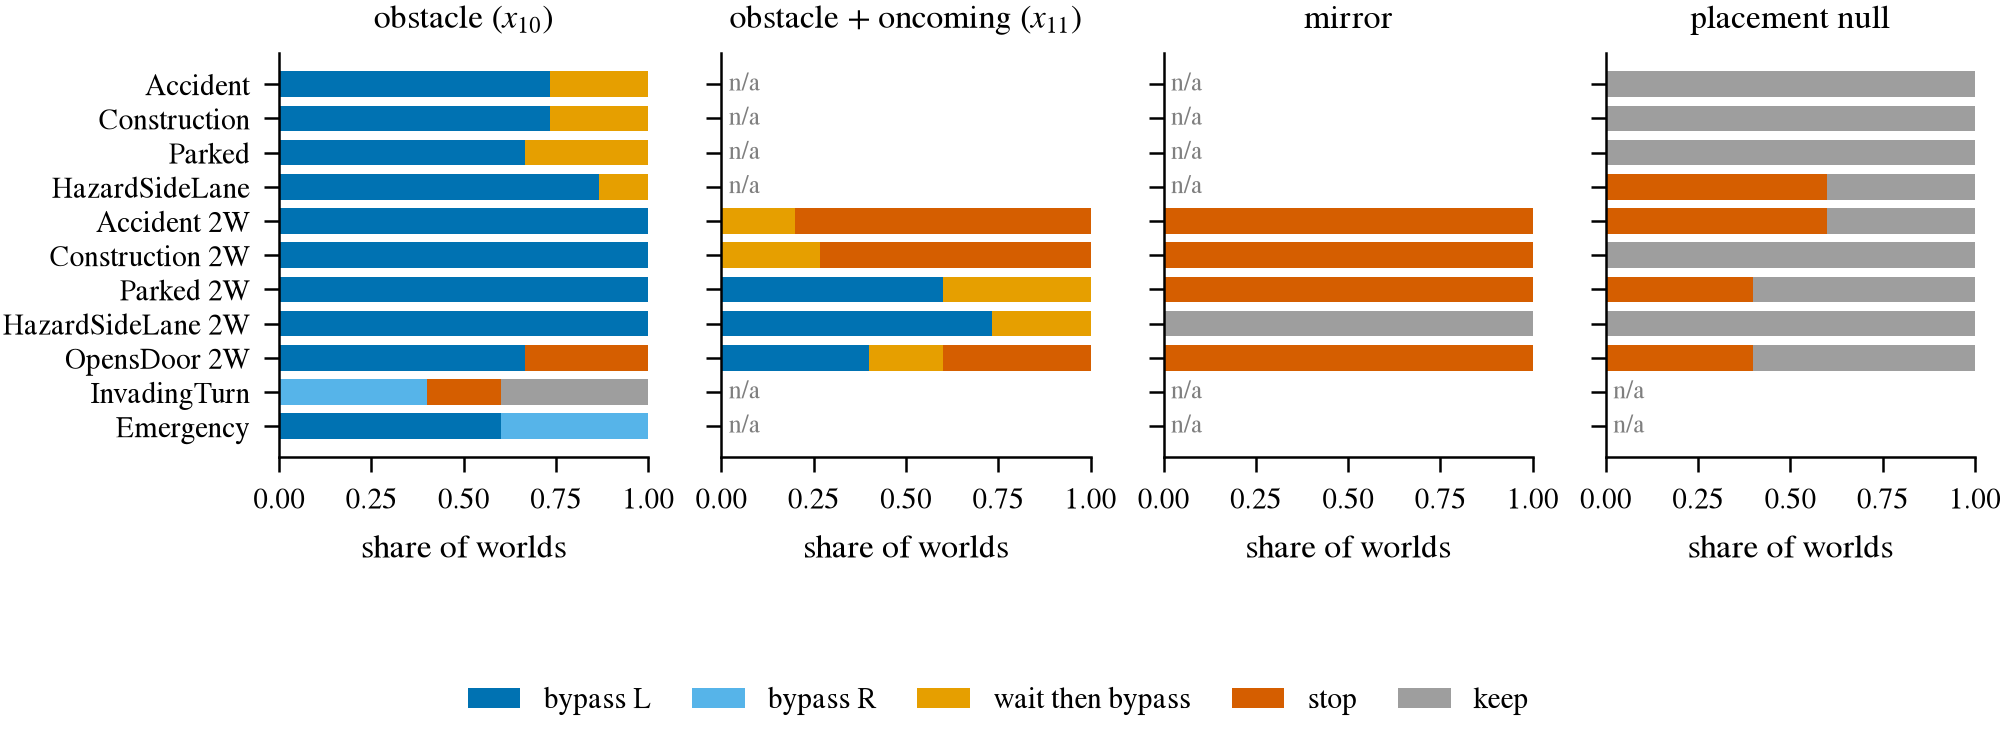
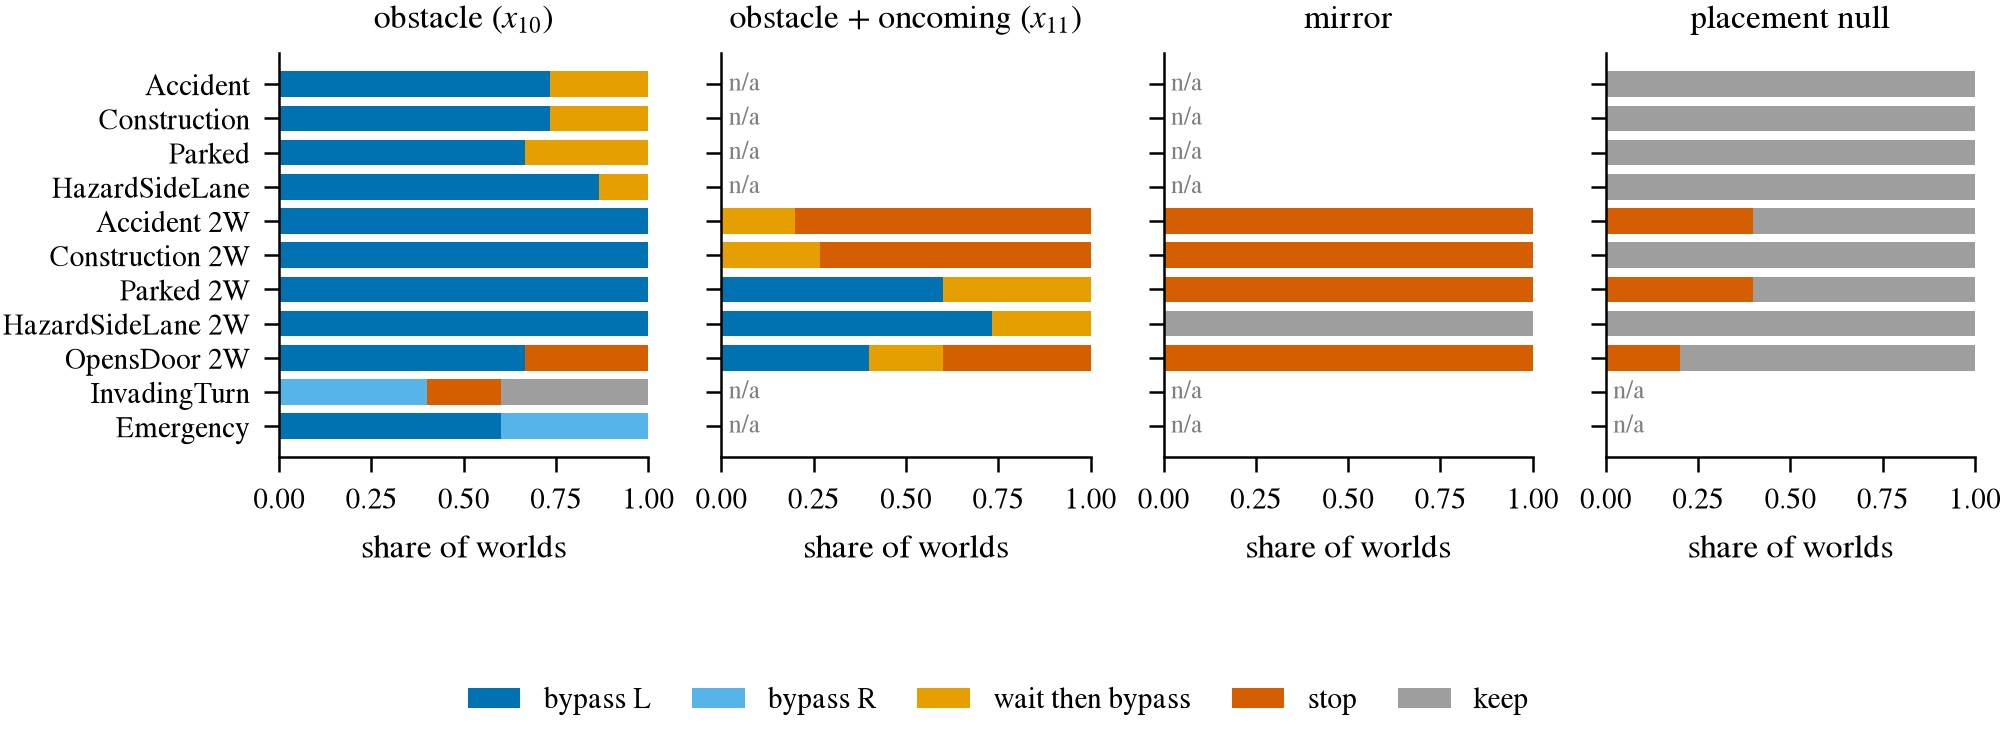
N1: placement null rerun after the generator fix (40/45, registered gate still not met; remaining stops are background traffic), results and decision 52 updated in place

Changed region(s): [[0.8044, 0.2411, 0.9281, 0.3315], [0.8353, 0.4521, 0.8972, 0.5123]]

diff --git a/research/decisions.md b/research/decisions.md
@@ -3355,7 +3355,7 @@ openpilot 那条线的执行器检查（night-queue-2 N2）仍是第三层的主
 **状态**：**待定**。限定：反应式对手（traffic = PPO）那一臂没跑，A 的 (c) 只在不反应的对手上读；B 只有 171 个直路 episode，障碍全是 4.8 × 2.0 m 的车，没考路口和对向来车；cond_caut / aggr / PDM 只跑了 B。
 **会推翻或推进本条的证据**：traffic = PPO 下 PPO 的 at-fault 碰撞差 ≤ 5 pp（(c) 过，negotiation 判定升级）；GPUDrive 的 HF policy 装上后在同一考卷上过有效性门槛且会回线（执行层有了候选）。
 
-## 52. 第三层的第一版考卷（P6 v0）成立：PDM-Lite 在 9 类障碍上 100% 绕、删登记后 0% 绕、分叉都在障碍可见之后；对向车流造出了 negotiation（65% 先等）；放置 null 不过，InvadingTurn、开门车、救护车不进主读数；`cls_late` 的词表里没有绕行 anchor（**待定**，CARLA 220 集 55 条路线 × 3 seed，单 expert）
+## 52. 第三层的第一版考卷（P6 v0）成立：PDM-Lite 在 9 类障碍上 100% 绕、删登记后 0% 绕、分叉都在障碍可见之后；对向车流造出了 negotiation（65% 先等）；放置 null 修生成器重跑后 0.889，按登记仍差一个世界（剩下的都是背景交通停车）；InvadingTurn、开门车、救护车不进主读数；`cls_late` 的词表里没有绕行 anchor（**待定**，CARLA 220 集 55 条路线 × 3 seed，单 expert）
 
 2026-09-26。预登记与全部操作性选择在 [夜间队列 2](../todos/2026-09-26-night-queue-2.md) N1（`[A]` 条目，写于每一步数字之前；对向车流的实现在 smoke 里改过两次，改动与原因都在 10:09 / 10:59 / 11:12 条），
 小表在 [results/night2/N1/](results/night2/N1/)，代码 `jevdrive/p6.py`、`scripts/b2d_hooks.py`（`p6_world`）、`scripts/p6_gen.sh`。接第 47 条（第三层没有量具）。
@@ -3368,7 +3368,7 @@ openpilot 那条线的执行器检查（night-queue-2 N2）仍是第三层的主
 | x₀₀ bypass | 0 / 165（x₀₀ 的 12 个 stop 与 x₀₁ 相同，是背景交通） | smoke：≥ 95% 帧 \|d\| < 0.3 m | 1 670 / 1 670 帧 |
 | t_div ≥ t_vis | 9 类障碍 135 / 135；InvadingTurn 12 / 15；Emergency 0 / 15（救护车在后方，前向相机看不到） | 只取通过的对 | |
 | negotiation：x₁₁ 里先等（wait-then-bypass 或 stop） | 0.65（x₁₀ 0.07）；AccidentTwoWays / Construction 2W 1.00，ParkedObstacle 2W 0.40，Door 0.60，HazardAtSideLane 2W 0.27 | ≥ 0.50 | 过 |
-| 放置 null keep | 35 / 45 = 0.78（其中 5 个 stop 在 x₀₀ 里也 stop，事后） | ≥ 0.90 | **不过，要修生成器** |
+| 放置 null keep | 40 / 45 = 0.889（修生成器、重跑后；5 个 stop 在 x₀₀ 里也 stop，事后「与 x₀₀ 同模式」45 / 45） | ≥ 0.90 | **按登记不过** |
 | 镜像题 stop | 20 / 25 = 0.80（HazardAtSideLane 2W 的 5 个是跟车不停） | ≥ 0.80 | 过（踩线） |
 | 天气 null / x₀₁ 与对照的模式一致 | 55 / 55、75 / 75 | — | |
 
@@ -3380,7 +3380,10 @@ x₁₁ 一栏里黄（先等后绕）和橙（录制窗内一直在等）占了
 1. **P6 的 bypass 对比（x₁₀ − x₀₀）可以用了**：9 类障碍 135 对都干净（删登记后 PDM-Lite 不再「对空气绕行」，分叉在障碍可见之后 2.4–3.7 s，横向 0.3 m 分叉在可见后约 6 s）。
 2. **negotiation 对比（x₁₁ − x₁₀）也造出来了**，但是靠我们自己布的对向车流（B2D 自带的对向流在触发后 5 s、从障碍前方约 75 m 起流，smoke 里从没赶上 ego），
    所以它量的是「PDM-Lite 的 gap check 对这张车流表的反应」，与 B2D 闭环 SR 里的 2W 难度不是同一个量。HazardAtSideLane 类的「等」是跟车，登记定义记不到，读考生时单列。
-3. **放置 null 不过**：路肩位移对自行车（它们仍被当成前车）和一部分 2W 不够。按规则先修生成器（加大偏移）并重跑这 45 个世界，才能读「考生是否只对『有东西』起反应」。
+3. **放置 null 按登记不过，但剩下的失败与障碍无关**（2026-09-26 16:00 就地改；原写「路肩位移对自行车和一部分 2W 不够，要先修生成器并重跑」，第一版是 35 / 45 = 0.78）。
+   第一版生成器有三处 bug：自行车的补丁打在了另一个模块对象上、从没生效；平移方向按「最近的驾驶车道」取，两车道对向的路上会取到对向车道；开着物理的停放车被放到路缘后被弹回车道或弹出地图。
+   三处都修了（按 ego 路线求方向、首 tick 平移、平移后关物理），45 个世界重跑后 40 / 45 keep；剩下 5 个 stop 在同 case 的 x₀₀（没有障碍）里一模一样，是背景交通。
+   读考生「是否只对『有东西』起反应」时用这 40 个世界，并写明登记门槛（0.90）未过。
 4. **`cls_late` 的 K = 1024 词表里没有一个 bypass 形状的 anchor**（3 s 处 |y| ≥ 1 m 且 5 s 内回到 ±0.5 m）：WOD train 的 493 条、P6 x₁₀ expert 的 552 条 bypass 形状的未来，最近 anchor 没有一个是 bypass 形状
    （P6 的 minADE 中位 1.56 m，最近 anchor 多是 keep）。第 47 条里 `cls_late` 在 WOD 绕行帧上 0 / 21，至少有一部分是 vocabulary 造成的；在 P6 上读 `cls_late` 的 Δm_bypass 之前要先换词表。
 

diff --git a/research/results/night2/N1/expert_stats.md b/research/results/night2/N1/expert_stats.md
@@ -18,12 +18,12 @@
 
 |                    |   n |   keep |   stop |   bypass_L |   bypass_R |   wait_then_bypass_L |   no_window |   bypass_share |
 |:-------------------|----:|-------:|-------:|-----------:|-----------:|---------------------:|------------:|---------------:|
-| ('1W', 'shoulder') |  20 |     17 |      3 |          0 |          0 |                    0 |           0 |          0     |
+| ('1W', 'shoulder') |  20 |     20 |      0 |          0 |          0 |                    0 |           0 |          0     |
 | ('1W', 'wnull')    |  20 |      0 |      0 |         17 |          0 |                    3 |           0 |          1     |
 | ('1W', 'x00')      |  60 |     60 |      0 |          0 |          0 |                    0 |           0 |          0     |
 | ('1W', 'x10')      |  60 |      0 |      0 |         45 |          0 |                   15 |           0 |          1     |
 | ('2W', 'mirror')   |  25 |      5 |     20 |          0 |          0 |                    0 |           0 |          0     |
-| ('2W', 'shoulder') |  25 |     18 |      7 |          0 |          0 |                    0 |           0 |          0     |
+| ('2W', 'shoulder') |  25 |     20 |      5 |          0 |          0 |                    0 |           0 |          0     |
 | ('2W', 'wnull')    |  25 |      0 |      1 |         24 |          0 |                    0 |           0 |          0.96  |
 | ('2W', 'x00')      |  75 |     63 |     12 |          0 |          0 |                    0 |           0 |          0     |
 | ('2W', 'x01')      |  75 |     63 |     12 |          0 |          0 |                    0 |           0 |          0     |
@@ -66,19 +66,19 @@ smoke 1: x00 |d(k+3 s)| < 0.3 m on 1670 / 1670 x10-bypass frames (1.000; gate >=
 
 pooled wait share x11 0.653 (gate >= 0.50), x10 0.067
 
-placement null keep: 35 / 45 = 0.778 (gate >= 0.90)
+placement null keep: 40 / 45 = 0.889 (gate >= 0.90)
 
 | scenario                    |   n |   keep |   stop |   bypass_share |
 |:----------------------------|----:|-------:|-------:|---------------:|
 | Accident                    |   5 |      5 |      0 |              0 |
-| AccidentTwoWays             |   5 |      2 |      3 |              0 |
+| AccidentTwoWays             |   5 |      3 |      2 |              0 |
 | ConstructionObstacle        |   5 |      5 |      0 |              0 |
 | ConstructionObstacleTwoWays |   5 |      5 |      0 |              0 |
-| HazardAtSideLane            |   5 |      2 |      3 |              0 |
+| HazardAtSideLane            |   5 |      5 |      0 |              0 |
 | HazardAtSideLaneTwoWays     |   5 |      5 |      0 |              0 |
 | ParkedObstacle              |   5 |      5 |      0 |              0 |
 | ParkedObstacleTwoWays       |   5 |      3 |      2 |              0 |
-| VehicleOpensDoorTwoWays     |   5 |      3 |      2 |              0 |
+| VehicleOpensDoorTwoWays     |   5 |      4 |      1 |              0 |
 
 mirror stop: 20 / 25 = 0.800 (gate >= 0.80)
 
@@ -97,7 +97,7 @@ weather null: same world mode as x10 in 55 / 55
 | world    |   worlds |   with >= 1 oncoming |   mean oncoming |
 |:---------|---------:|---------------------:|----------------:|
 | mirror   |       25 |                   23 |            7.52 |
-| shoulder |       25 |                    4 |            0.16 |
+| shoulder |       25 |                    1 |            0.04 |
 | wnull    |       25 |                    1 |            0.04 |
 | x00      |       75 |                    1 |            0.01 |
 | x01      |       75 |                   53 |            3.01 |

diff --git a/todos/2026-09-26-night-queue-2.md b/todos/2026-09-26-night-queue-2.md
@@ -588,14 +588,14 @@ InvadingTurn 12 / 15 通过（3 对提前）、中位 0.6 s / 1.2 s；**Emergenc
 | VehicleOpensDoorTwoWays | 0.60 | 0.33 | 2.2 | −8.4 |
 | **合并** | **0.65**（门 ≥ 0.50，**过**） | 0.07 | | |
 
-**null 与镜像题**：放置 null keep 35 / 45 = **0.78（门 ≥ 0.90，不过）**；镜像题 stop 20 / 25 = **0.80（门 ≥ 0.80，过）**，HazardAtSideLaneTwoWays 的 5 个是跟车不停（记成 keep）。
+**null 与镜像题**：放置 null keep **40 / 45 = 0.889（门 ≥ 0.90，按登记仍不过）**——这是修过生成器、重跑 45 个世界之后的数（16:00 就地改；原写「35 / 45 = 0.78」，那一版生成器有三处 bug，诊断与修正见 N1 节 15:02 / 15:27 / 15:44 条）；剩下的 5 个 stop 在同 case 的 x₀₀ 里也 stop（背景交通），事后口径「放置 null 的模式 = x₀₀ 的模式」45 / 45；镜像题 stop 20 / 25 = **0.80（门 ≥ 0.80，过）**，HazardAtSideLaneTwoWays 的 5 个是跟车不停（记成 keep）。
 对向车流 smoke 在全部数据上：窗口内至少 1 辆对向车的比例 x₁₁ 69 / 75、x₀₁ 53 / 75、镜像 23 / 25，x₁₀ 2 / 75、x₀₀ 1 / 75（登记是「每个 2W 世界」，全量上 x₀₁ 有 22 个世界窗口内没有来车，如实报）。
 
 **CPU 准备**：(i) `cls_late` 的 K = 1024 词表 bypass 形状 anchor 0 / 1024；bypass 形状的目标轨迹里最近 anchor 是 bypass 形状的比例：WOD train 0 / 493（minADE 中位 0.78 m），
 **P6 x₁₀ expert 0 / 552**（占 x₁₀ 帧的 6.2%，minADE 中位 1.56 m，最近 anchor 377 个是 keep）。(ii) 220 集每类 5 条路线（val 集数见 11:41 条）。
 
 **判读**：第三层的第一版考卷在 9 类障碍上成立（expert 100% 绕、删登记后 0% 绕、分叉在可见之后），negotiation 被造出来了（x₁₁ 里 65% 先等），镜像题踩线过；
-放置 null 不过——按 todo 写死的规则「不过就修生成器」：路肩位移对自行车与部分 2W 不够，考生读放置 null 之前要先修（加大 HazardAtSideLane 的 offset、2W 的路肩余量）并重跑这 45 个世界。
+放置 null 按规则修了生成器并重跑（16:00 就地改；原写「要先修并重跑」）：修完后与障碍有关的 stop 全部消失，按登记口径 0.889 仍差一个世界，差的 5 个都是与障碍无关的背景交通停车（x₀₀ 同样停），生成器已经修不动它们；考生读放置 null 时用「与 x₀₀ 同模式」的 40 个 keep 世界作分母，并注明登记门槛未过。
 InvadingTurn 和 VehicleOpensDoorTwoWays 不进 bypass 主读数；Emergency 只能当「看不见的触发」对照，不进主读数。`cls_late` 的词表里没有能表示绕行的 anchor，它在第三层上的零读数先归 vocabulary。
 资源：墙钟 09:50–14:22（其中 11:39–12:28 box 重启停摆），约 12 卡·h（smoke 1 卡 1.7 h、a 段 2 卡 1.5 h、续跑 4 卡 1.9 h）；CPU 被别的执行员打满期间每 run 慢 3 倍、25 次 CARLA 渲染线程超时崩溃（重试补齐）。
 
